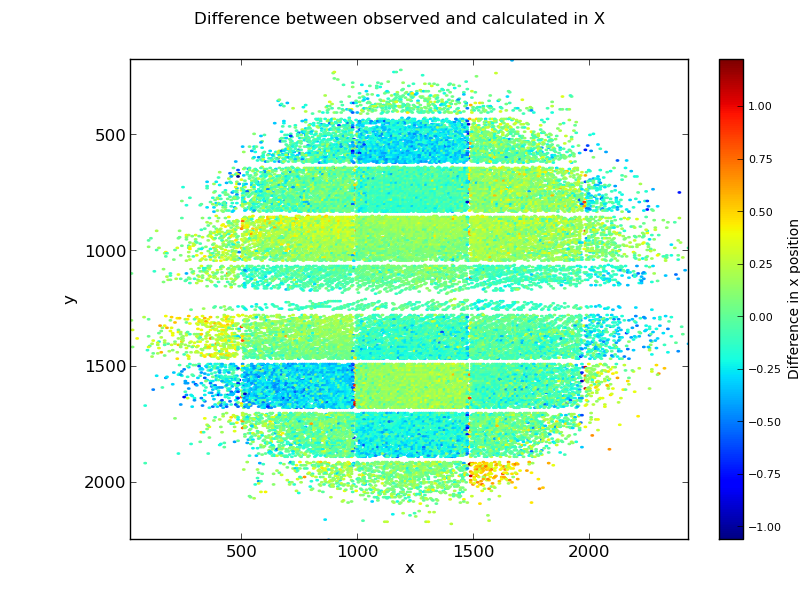
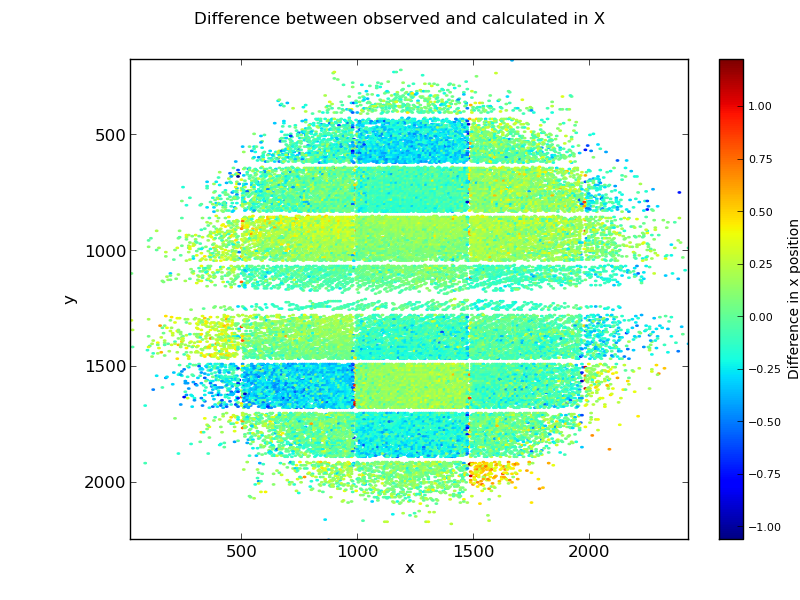
Update figures and stats. A few corrections

diff --git a/sphinx/advanced_tutorial.rst b/sphinx/advanced_tutorial.rst
@@ -803,9 +803,10 @@ huge changes to the cell.
 We see an overall increase in all three cell parameters, however the greatest
 change, in lengths *a* and *b*, is only about 0.02 Angstroms. If
 significant cell volume increases had been observed that might be indicative of
-radiation damage. However we can't yet conclude that there is no radiation
-damage from the lack of considerable change observed. We can at least see from
-this and the low finals refined RMSDs that this is a very well-behaved dataset.
+radiation damage. However we can't yet conclude that there is *no* radiation
+damage from the *lack* of considerable change observed. We can at least see from
+this and the low final refined RMSDs that this is a very well-behaved dataset
+though.
 
 Integration
 ^^^^^^^^^^^
@@ -860,7 +861,7 @@ information specific to each integration job.
 
 After these jobs are finished, the reflections are 'post-processed', which includes
 the application of the LP correction to the intensities. Then summary tables
-are printed giving quality statistic first by frame, and then by resolution bin.
+are printed giving quality statistics first by frame, and then by resolution bin.
 The latter of these tables and the final overall summary are reproduced here::
 
   Summary of integration results binned by resolution
@@ -868,40 +869,40 @@ The latter of these tables and the final overall summary are reproduced here::
   d min |  d max | # full | # part | # over | # ice | # sum | # prf | <Ibg> | <I/sigI> | <I/sigI> | <CC prf>
         |        |        |        |        |       |       |       |       |    (sum) |    (prf) |
   ----------------------------------------------------------------------------------------------------------
-   1.17 |   1.19 |    300 |      2 |      0 |     0 |   302 |   232 |  0.04 |     0.39 |     0.48 |     0.09
-   1.19 |   1.21 |   1060 |      5 |      0 |     0 |  1065 |   920 |  0.04 |     0.44 |     0.51 |     0.10
-   1.21 |   1.23 |   2270 |     13 |      0 |     0 |  2283 |  2071 |  0.05 |     0.51 |     0.55 |     0.10
-   1.23 |   1.26 |   3715 |     21 |      0 |     0 |  3736 |  3528 |  0.05 |     0.55 |     0.64 |     0.12
-   1.26 |   1.28 |   5340 |     31 |      0 |     0 |  5371 |  5097 |  0.05 |     0.60 |     0.72 |     0.14
-   1.28 |   1.31 |   7114 |     44 |      0 |     0 |  7158 |  6848 |  0.06 |     0.65 |     0.78 |     0.15
-   1.31 |   1.35 |   9364 |     57 |      0 |     0 |  9421 |  9077 |  0.06 |     0.78 |     0.91 |     0.18
-   1.35 |   1.38 |  12334 |     78 |      0 |     0 | 12412 | 12014 |  0.07 |     0.92 |     1.06 |     0.21
-   1.38 |   1.42 |  16753 |     97 |      0 |     0 | 16850 | 16368 |  0.07 |     0.99 |     1.15 |     0.23
-   1.42 |   1.47 |  19873 |    359 |      0 |     0 | 20232 | 19850 |  0.08 |     1.20 |     1.35 |     0.26
-   1.47 |   1.52 |  22915 |   1842 |      0 |     0 | 24757 | 24267 |  0.09 |     1.42 |     1.55 |     0.28
-   1.52 |   1.58 |  23408 |   1889 |      0 |     0 | 25297 | 25063 |  0.09 |     1.70 |     1.83 |     0.33
-   1.58 |   1.66 |  24837 |   1887 |      0 |     0 | 26724 | 26517 |  0.10 |     2.10 |     2.23 |     0.38
-   1.66 |   1.74 |  23592 |   1812 |      0 |     0 | 25404 | 25234 |  0.12 |     2.62 |     2.72 |     0.43
-   1.74 |   1.85 |  24094 |   1848 |      0 |     0 | 25942 | 25771 |  0.14 |     3.37 |     3.44 |     0.49
-   1.85 |   2.00 |  25042 |   1896 |      0 |     0 | 26938 | 26782 |  0.18 |     4.70 |     4.67 |     0.55
-   2.00 |   2.20 |  24122 |   1631 |      0 |     0 | 25753 | 25606 |  0.24 |     6.36 |     6.22 |     0.61
-   2.20 |   2.51 |  25031 |   1903 |      0 |     0 | 26934 | 26696 |  0.29 |     8.50 |     8.10 |     0.63
-   2.51 |   3.17 |  24614 |   1773 |      0 |     0 | 26387 | 26117 |  0.34 |    12.32 |    11.27 |     0.63
-   3.17 | 151.26 |  25141 |   1942 |      0 |     0 | 27083 | 26632 |  0.41 |    24.59 |    20.61 |     0.61
+   1.17 |   1.19 |    300 |      2 |      0 |     0 |   302 |   231 |  0.04 |     0.39 |     0.55 |     0.12
+   1.19 |   1.21 |   1060 |      5 |      0 |     0 |  1065 |   920 |  0.04 |     0.44 |     0.53 |     0.10
+   1.21 |   1.23 |   2270 |     13 |      0 |     0 |  2283 |  2070 |  0.05 |     0.51 |     0.59 |     0.11
+   1.23 |   1.26 |   3715 |     21 |      0 |     0 |  3736 |  3526 |  0.05 |     0.55 |     0.68 |     0.13
+   1.26 |   1.28 |   5340 |     31 |      0 |     0 |  5371 |  5100 |  0.05 |     0.60 |     0.77 |     0.15
+   1.28 |   1.31 |   7114 |     44 |      0 |     0 |  7158 |  6853 |  0.06 |     0.65 |     0.83 |     0.17
+   1.31 |   1.35 |   9364 |     57 |      0 |     0 |  9421 |  9084 |  0.06 |     0.78 |     0.98 |     0.20
+   1.35 |   1.38 |  12334 |     78 |      0 |     0 | 12412 | 12032 |  0.07 |     0.92 |     1.14 |     0.23
+   1.38 |   1.42 |  16753 |     97 |      0 |     0 | 16850 | 16375 |  0.07 |     0.99 |     1.23 |     0.25
+   1.42 |   1.47 |  19949 |    133 |      0 |     0 | 20082 | 19767 |  0.08 |     1.20 |     1.47 |     0.28
+   1.47 |   1.52 |  23398 |    197 |      0 |     0 | 23595 | 23291 |  0.09 |     1.48 |     1.77 |     0.33
+   1.52 |   1.58 |  23893 |    214 |      0 |     0 | 24107 | 24027 |  0.09 |     1.77 |     2.09 |     0.38
+   1.58 |   1.66 |  25325 |    219 |      0 |     0 | 25544 | 25475 |  0.10 |     2.18 |     2.54 |     0.44
+   1.66 |   1.74 |  24059 |    189 |      0 |     0 | 24248 | 24209 |  0.12 |     2.72 |     3.10 |     0.50
+   1.74 |   1.85 |  24579 |    202 |      0 |     0 | 24781 | 24764 |  0.14 |     3.51 |     3.92 |     0.57
+   1.85 |   2.00 |  25524 |    231 |      0 |     0 | 25755 | 25741 |  0.18 |     4.87 |     5.32 |     0.64
+   2.00 |   2.20 |  24533 |    215 |      0 |     0 | 24748 | 24743 |  0.24 |     6.57 |     7.07 |     0.71
+   2.20 |   2.51 |  25524 |    201 |      0 |     0 | 25725 | 25724 |  0.28 |     8.81 |     9.29 |     0.74
+   2.51 |   3.17 |  25048 |    242 |      0 |     0 | 25290 | 25288 |  0.34 |    12.70 |    13.11 |     0.76
+   3.17 | 151.26 |  25619 |    231 |      0 |     0 | 25850 | 25847 |  0.41 |    25.40 |    25.35 |     0.76
   ----------------------------------------------------------------------------------------------------------
 
   Summary of integration results for the whole dataset
   ----------------------------------------------
-  Number fully recorded                 | 364716
-  Number partially recorded             | 26755
+  Number fully recorded                 | 370357
+  Number partially recorded             | 4347
   Number with overloaded pixels         | 0
   Number in powder rings                | 0
-  Number processed with summation       | 340049
-  Number processed with profile fitting | 334690
+  Number processed with summation       | 328323
+  Number processed with profile fitting | 325067
   <Ibg>                                 | 0.17
-  <I/sigI> (summation)                  | 5.50
-  <I/sigI> (profile fitting)            | 5.15
-  <CC prf>                              | 0.37
+  <I/sigI> (summation)                  | 5.63
+  <I/sigI> (profile fitting)            | 6.00
+  <CC prf>                              | 0.44
   ----------------------------------------------
 
 Graphical analysis of the output
@@ -929,17 +930,6 @@ Some of the most useful plots are
 * :file:`background/background_model_mean_vs_xy.png`, which shows the mean
   background value as a function of detector position.
 
-* :file:`centroid/centroid_diff_x.png` and :file:`centroid/centroid_diff_y.png`,
-  which show the difference between predicted and observed reflection positions
-  in either X or Y as functions of detector position. From these plots it is very
-  easy to see whole tiles that are worse than their neighbours, and either whether
-  those tiles might be simply shifted or slightly rotated compared to the model
-  detector.
-
-  .. image:: figures/centroid_diff_x.png
-
-  .. image:: figures/centroid_diff_y.png
-
 * :file:`centroid/centroid_mean_diff_vs_phi.png`, which shows how the average
   residuals in each of X, Y, and :math:`\phi` vary as a fuction of :math:`\phi`.
   If scan-varying refinement has been successful in capturing the real changes
@@ -951,6 +941,32 @@ Some of the most useful plots are
   directly. The key point here is to look for a globular shape centred at 0.0.
 
   .. image:: figures/centroid_xy_residuals.png
+
+* :file:`centroid/centroid_diff_x.png` and :file:`centroid/centroid_diff_y.png`,
+  which show the difference between predicted and observed reflection positions
+  in either X or Y as functions of detector position. From these plots it is very
+  easy to see whole tiles that are worse than their neighbours, and either whether
+  those tiles might be simply shifted or slightly rotated compared to the model
+  detector.
+
+  .. image:: figures/centroid_diff_x.png
+
+  .. image:: figures/centroid_diff_y.png
+
+* :file:`reference/reflection_corr_vs_xy.png` and
+  :file:`reference/reference_corr_vs_xy.png`. These are useful companions to the
+  plots of centroid residual as a function of detector position displayed above.
+  Whereas the earlier plots show systematic errors in the positions and
+  orientations of tiles of a multi-panel detector, these plots indicate what
+  effect that (and any other position-specific systematic error) has on the
+  integrated data quality. The first of these plots shows the correlation
+  between reflections and their reference profiles for all reflections in the
+  dataset. The second shows only the correlations between the strong reference
+  reflections and their profiles (thus these are expected to be higher and do
+  not extend to such high resolution). The first plot is probably the most
+  useful, and that is reproduced here.
+
+  .. image:: figures/reflection_corr_vs_xy.png
 
 * :file:`intensity/ioversigma_vs_z.png`. This reproduces the
   :math:`\frac{I}{\sigma_I}` information versus frame number given in the log
@@ -981,7 +997,7 @@ And this is the output, showing the reflection file statistics.
 
   hklout = integrated.mtz
   input {
-    experiments = refined_experiments.json
+    experiments = ../refined_experiments.json
     reflections = integrated.pickle
   }
 
@@ -992,7 +1008,7 @@ And this is the output, showing the reflection file statistics.
   Point group symbol from file: 4
   Number of batches: 540
   Number of crystals: 1
-  Number of Miller indices: 321981
+  Number of Miller indices: 322903
   Resolution range: 150.004 1.17
   History:
   Crystal 1:
@@ -1007,21 +1023,20 @@ And this is the output, showing the reflection file statistics.
       Wavelength: 0.97625
       Number of columns: 14
       label        #valid  %valid      min     max type
-      H            321981 100.00%     0.00   47.00 H: index h,k,l
-      K            321981 100.00%     0.00   46.00 H: index h,k,l
-      L            321981 100.00%     0.00  114.00 H: index h,k,l
-      M_ISYM       321981 100.00%     1.00    8.00 Y: M/ISYM, packed partial/reject flag and symmetry number
-      BATCH        321981 100.00%     2.00  539.00 B: BATCH number
-      IPR          321981 100.00%  -281.32 2855.79 J: intensity
-      SIGIPR       321981 100.00%     0.04   53.47 Q: standard deviation
-      I            321981 100.00% -2244.44 3059.53 J: intensity
-      SIGI         321981 100.00%     0.09   71.90 Q: standard deviation
-      FRACTIONCALC 321981 100.00%     1.00    1.00 R: real
-      XDET         321981 100.00%     6.54 2456.31 R: real
-      YDET         321981 100.00%     5.78 2520.59 R: real
-      ROT          321981 100.00%    82.01  162.69 R: real
-      LP           321981 100.00%     0.00    0.76 R: real
-
+      H            322903 100.00%     0.00   47.00 H: index h,k,l
+      K            322903 100.00%     0.00   46.00 H: index h,k,l
+      L            322903 100.00%     0.00  114.00 H: index h,k,l
+      M_ISYM       322903 100.00%     1.00    8.00 Y: M/ISYM, packed partial/reject flag and symmetry number
+      BATCH        322903 100.00%     2.00  539.00 B: BATCH number
+      IPR          322903 100.00%  -275.94 2875.30 J: intensity
+      SIGIPR       322903 100.00%     0.04   53.65 Q: standard deviation
+      I            322903 100.00% -2244.44 3059.53 J: intensity
+      SIGI         322903 100.00%     0.09   71.90 Q: standard deviation
+      FRACTIONCALC 322903 100.00%     1.00    1.00 R: real
+      XDET         322903 100.00%     6.54 2456.31 R: real
+      YDET         322903 100.00%     5.78 2520.59 R: real
+      ROT          322903 100.00%    82.01  162.69 R: real
+      LP           322903 100.00%     0.00    0.76 R: real
 
 
 What to do Next
@@ -1040,10 +1055,47 @@ using ctruncate_::
   ctruncate -hklin scaled.mtz -hklout truncated.mtz \
   -colin '/*/*/[IMEAN,SIGIMEAN]' > ctruncate.log
 
-to get merged data for downstream analysis. The output from this will include
-the merging statistics which will give some idea of the data quality. Often
-passing in a sensible resolution limit to aimless is also helpful... this should
-give you something like::
+to get merged data for downstream analysis. The output from this includes
+the merging statistics which will give a better idea about data quality. It is
+easiest to view these logfiles using the program :program:`logview`, e.g.::
+
+  logview aimless.log
+
+Often passing in a sensible resolution limit to aimless is helpful. Here we
+assumed we ran first without a resolution limit to help decide where to cut
+the data. This indicated slightly anisotropic diffraction, with diffraction along
+the *c*\* direction a little better than *a*\* and *b*\* directions, which are
+equivalent. Diffraction quality is good, however completeness falls off sharply,
+especially in the *c*\* direction. Following this we chose to exclude all data
+at a resolution higher than 1.3 Angstroms, to ensure about 80% completeness in
+the outer shell. Here is the summary from aimless.log:
+
+::
+
+  Summary data for        Project: DIALS Crystal: XTAL Dataset: FROMDIALS
+
+                                             Overall  InnerShell  OuterShell
+  Low resolution limit                      150.00    150.00      1.32
+  High resolution limit                       1.30      7.12      1.30
+
+  Rmerge  (within I+/I-)                     0.063     0.024     0.413
+  Rmerge  (all I+ and I-)                    0.071     0.026     0.482
+  Rmeas (within I+/I-)                       0.077     0.030     0.571
+  Rmeas (all I+ & I-)                        0.078     0.030     0.602
+  Rpim (within I+/I-)                        0.044     0.017     0.393
+  Rpim (all I+ & I-)                         0.034     0.014     0.354
+  Rmerge in top intensity bin                0.029        -         -
+  Total number of observations              307775      2248      5448
+  Total number unique                        62333       499      2465
+  Mean((I)/sd(I))                             10.6      26.3       1.5
+  Mn(I) half-set correlation CC(1/2)         0.999     0.999     0.719
+  Completeness                                98.2      99.8      79.8
+  Multiplicity                                 4.9       4.5       2.2
+
+  Anomalous completeness                      92.2     100.0      47.5
+  Anomalous multiplicity                       2.4       3.0       1.5
+  DelAnom correlation between half-sets      0.008     0.302    -0.082
+  Mid-Slope of Anom Normal Probability       0.950       -         -
 
   Summary data for        Project: DIALS Crystal: XTAL Dataset: FROMDIALS
 
